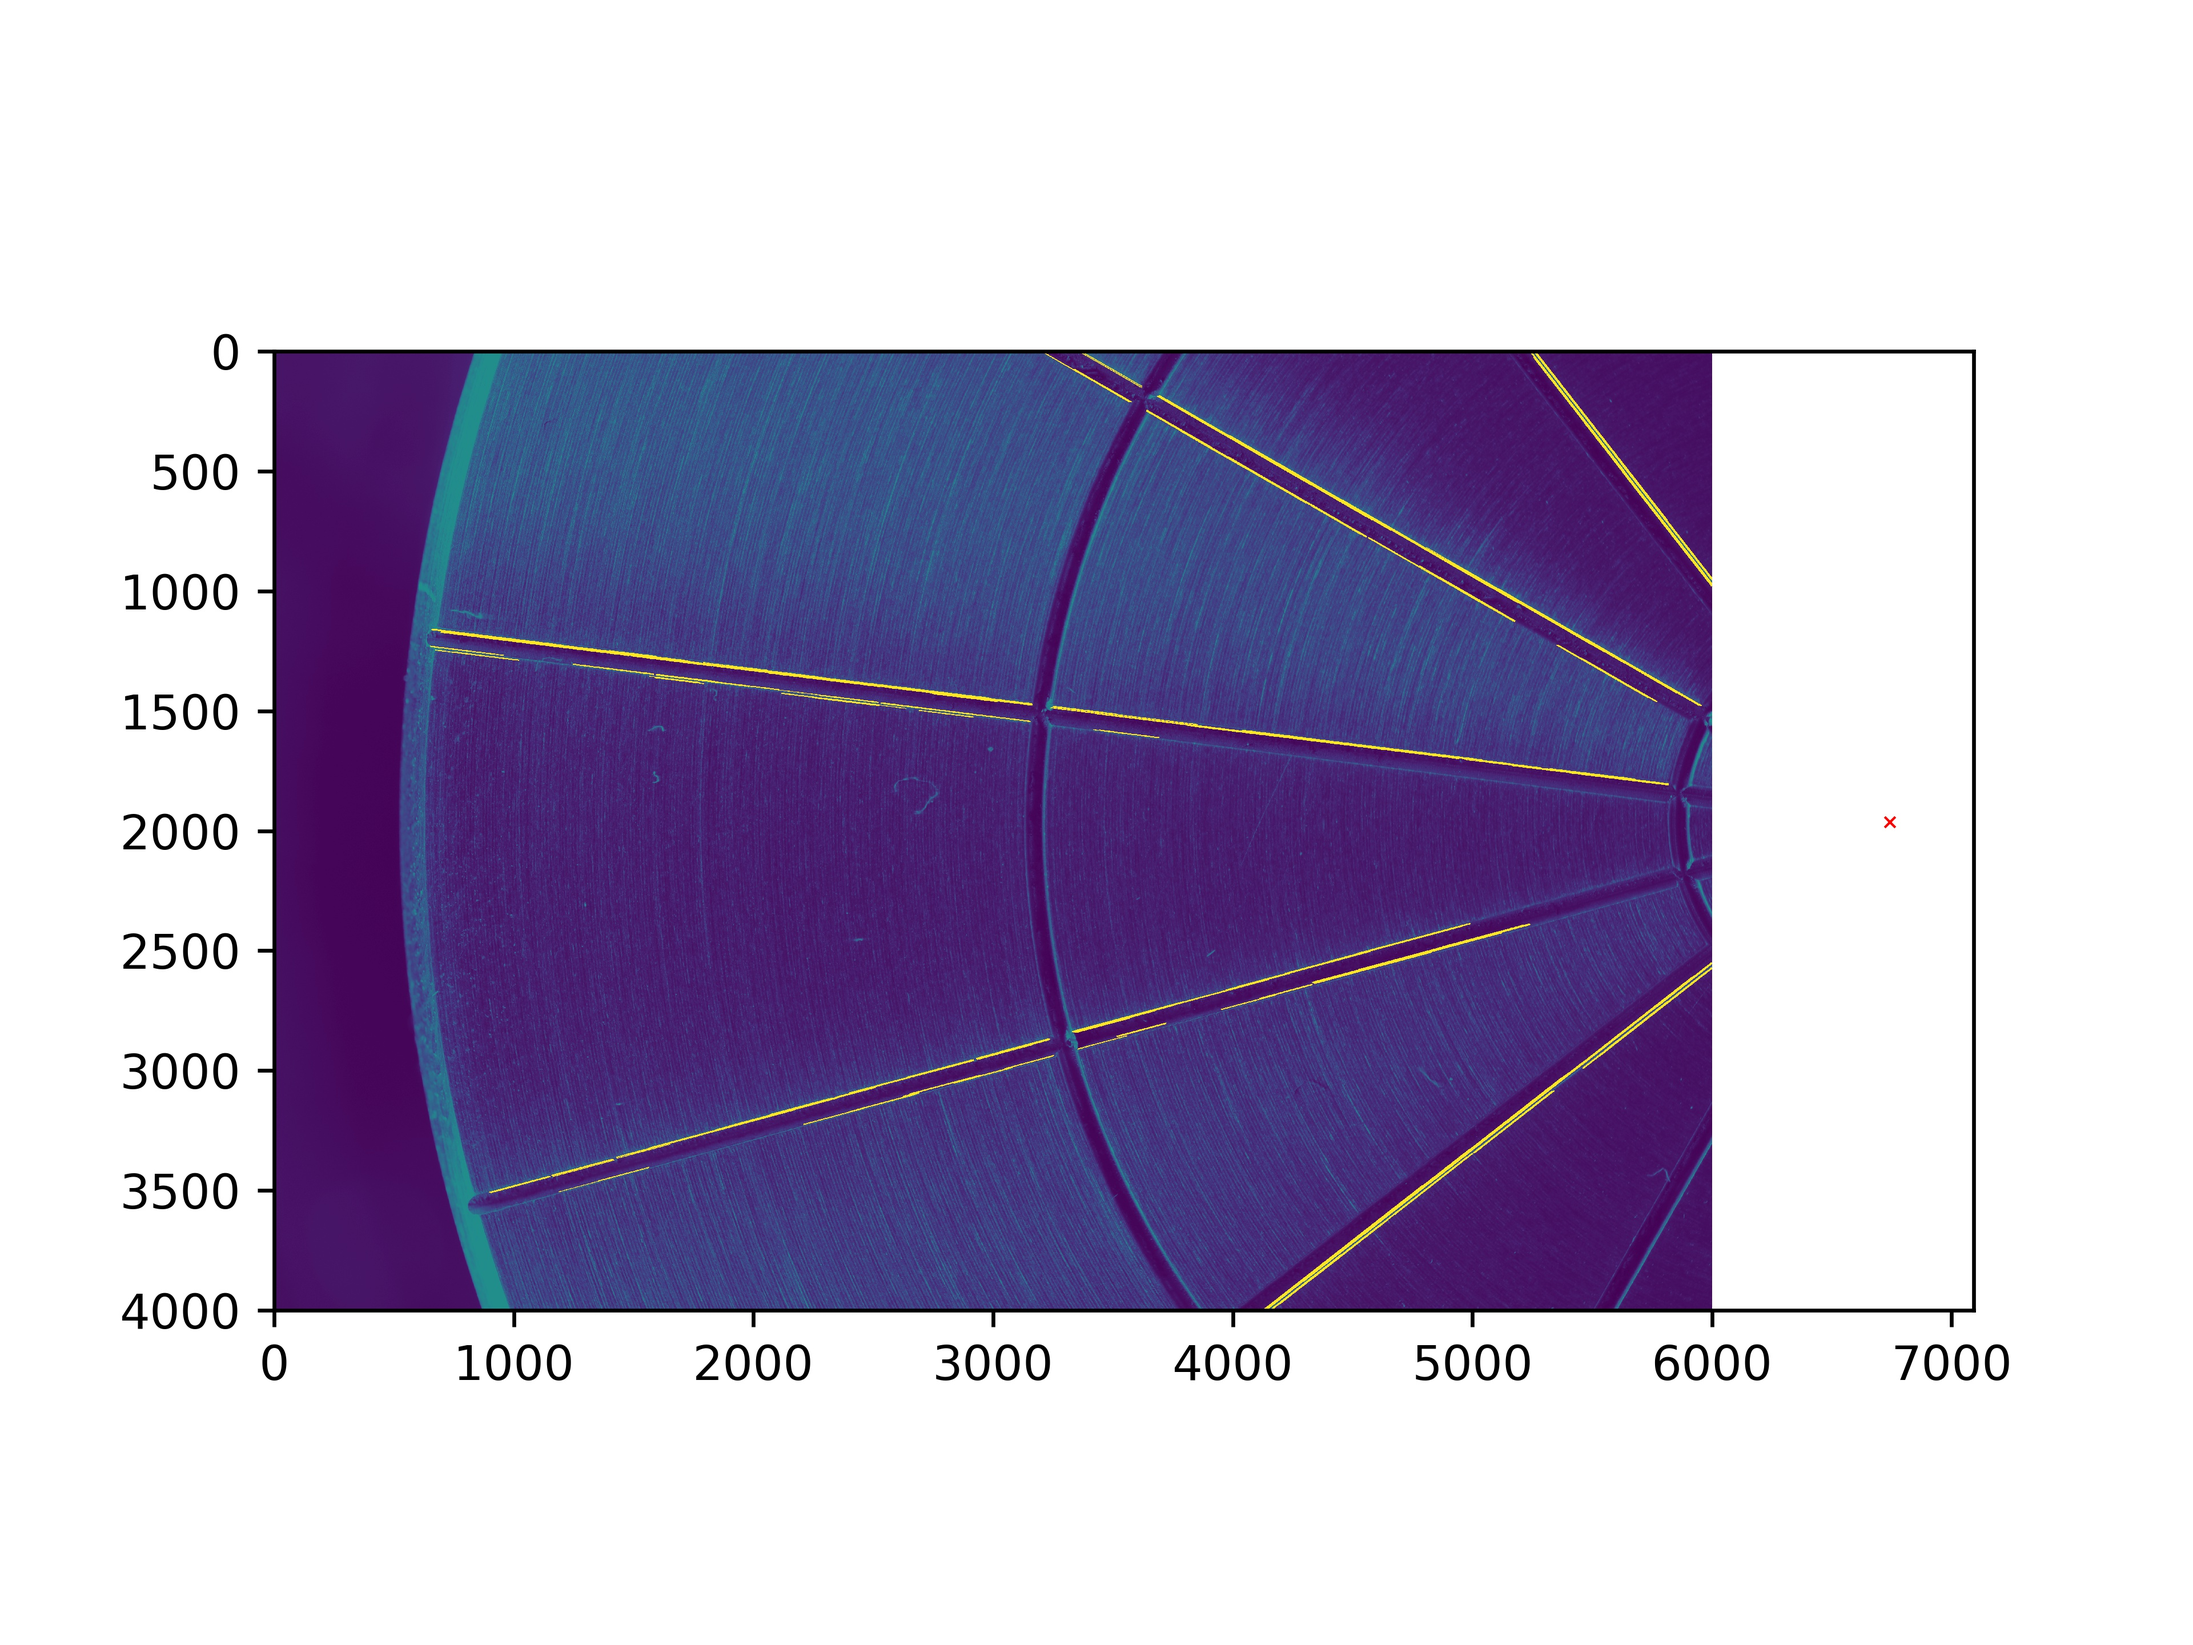
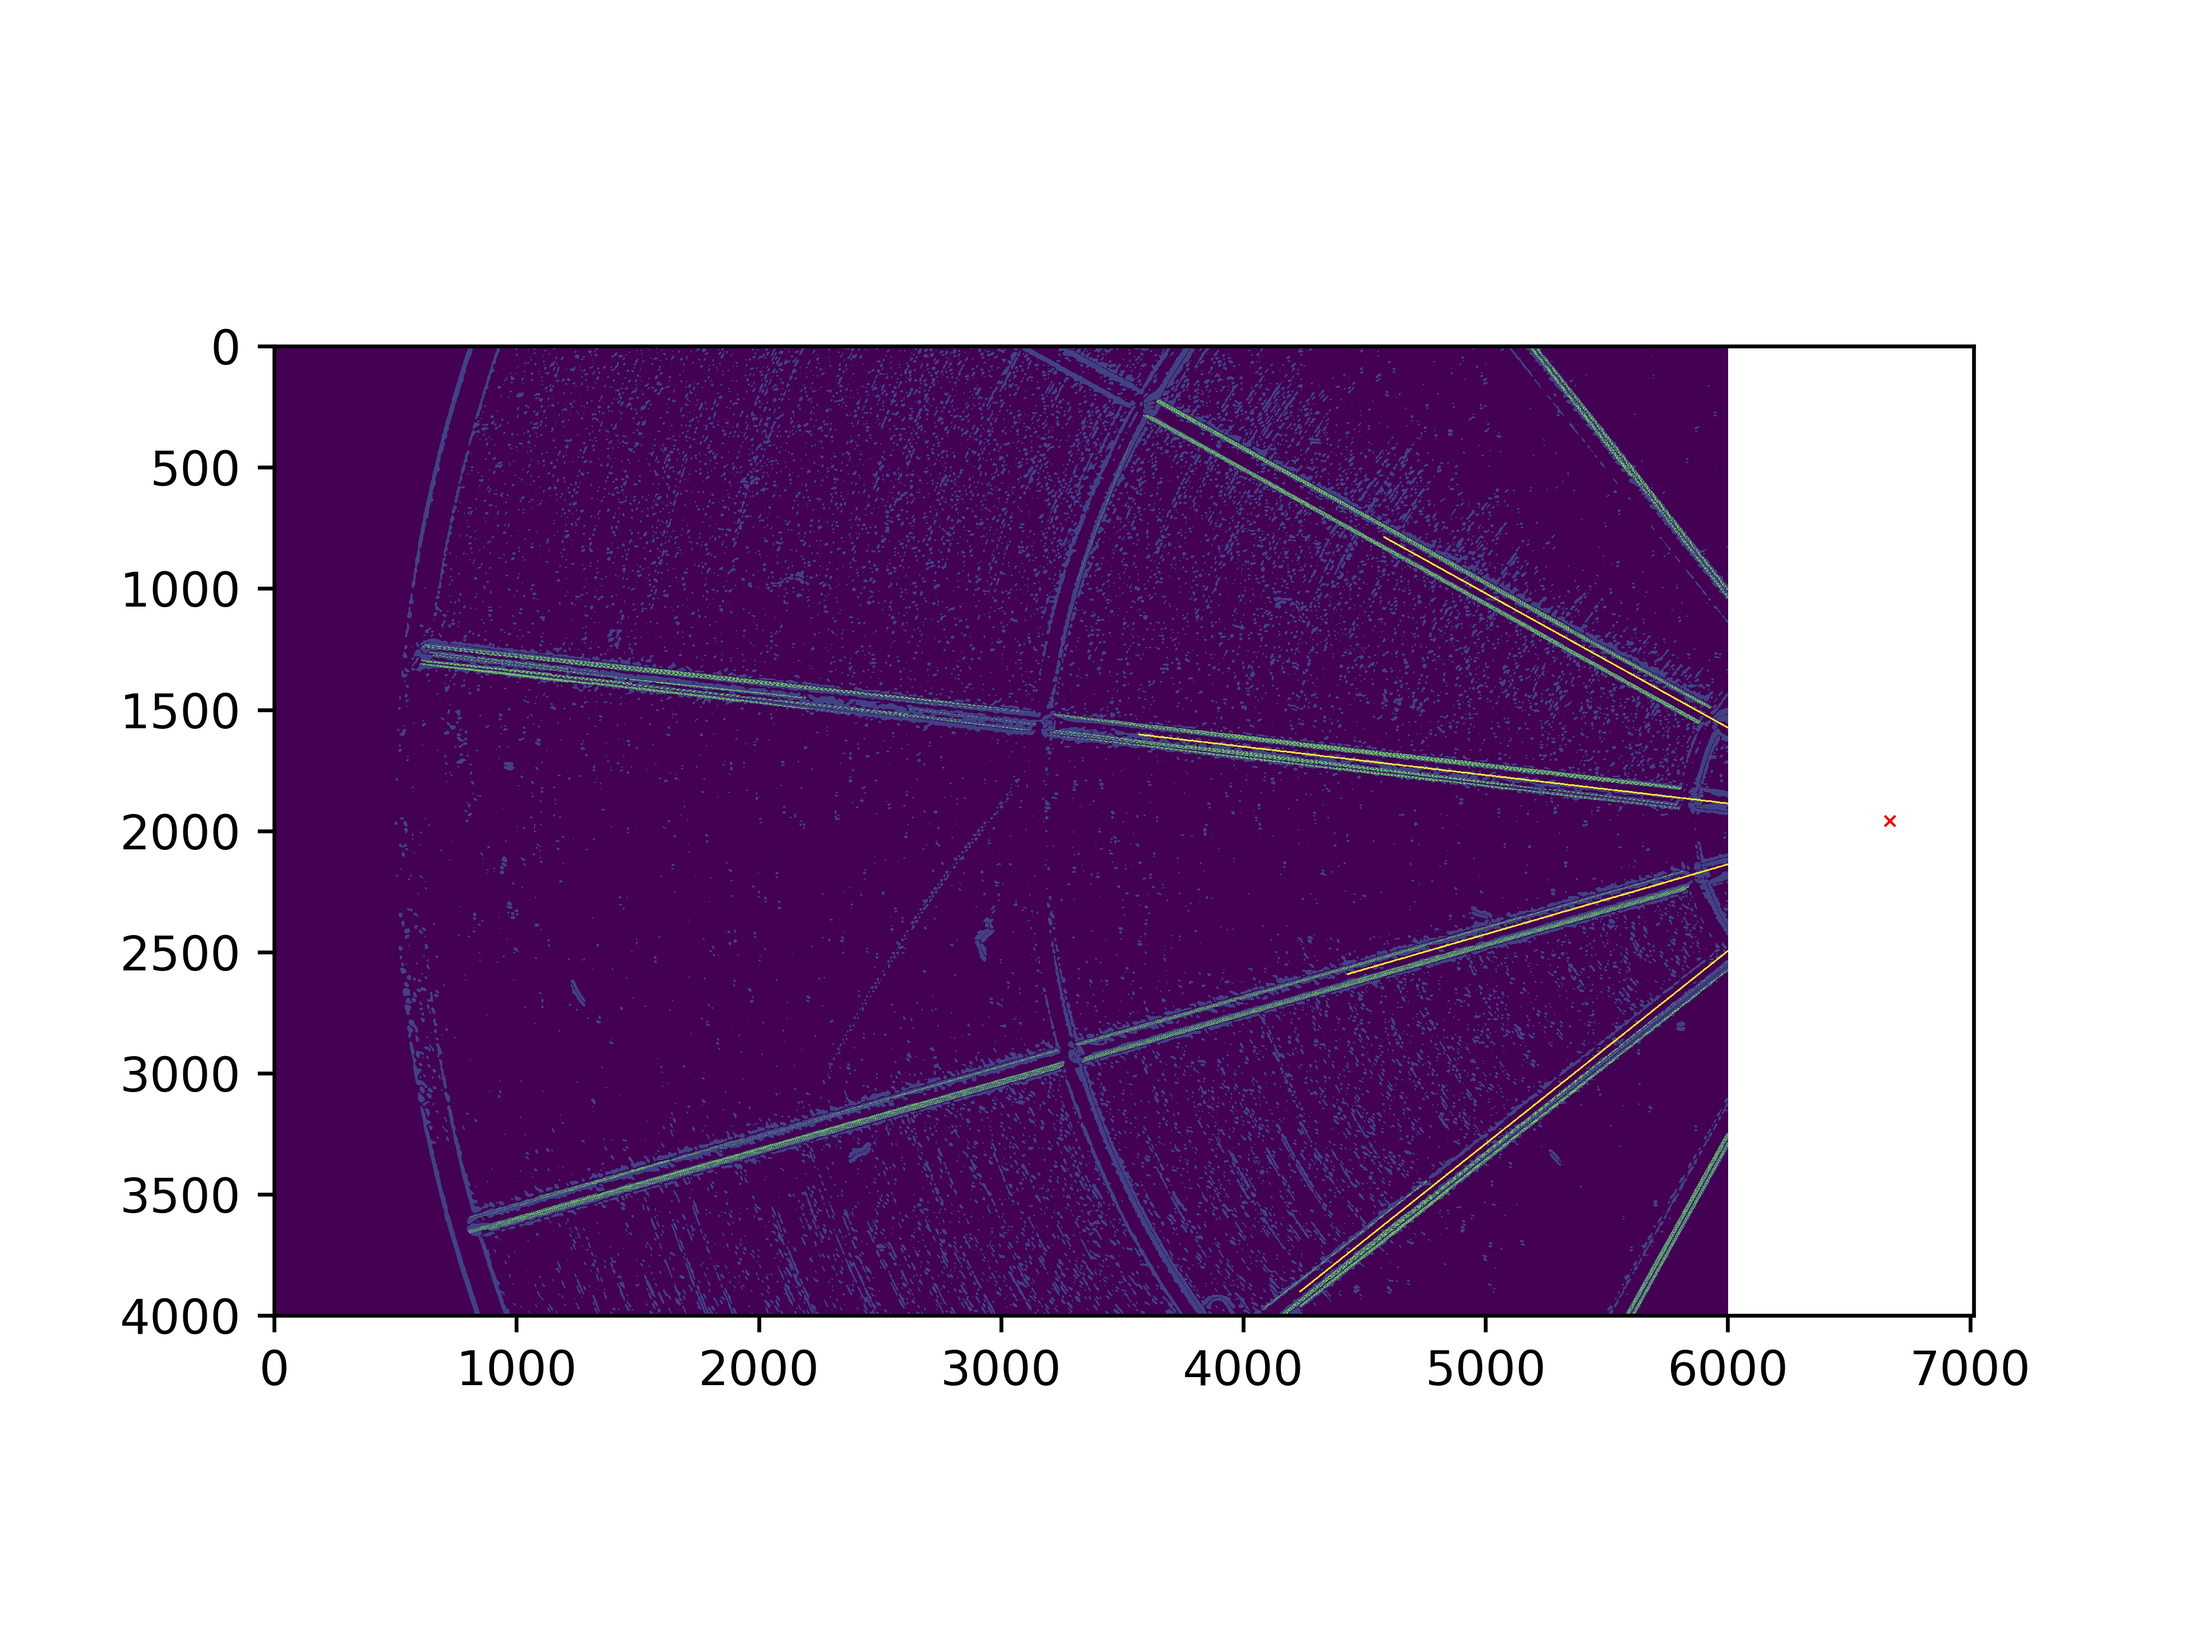
Enhanced line detection

diff --git a/sectorImage/core/calibration.py b/sectorImage/core/calibration.py
@@ -4,6 +4,9 @@ import cv2
 import matplotlib.pyplot as plt
 import math
 import multiprocessing as mp
+from operator import attrgetter
+
+from toolkit.line import Line
 
 
 class Calibrator:
@@ -12,13 +15,18 @@ class Calibrator:
         self.fns = fns
         # self.images = [ndimage.imread(fn, flatten=True) for fn in self.fns]
 
-    def getMidpoints(self, save=True):
-        mp.set_start_method('spawn')
-        ncpus = mp.cpu_count()
-        pool = mp.Pool(ncpus)
-        mps = pool.map(self.houghTransform, self.fns)
-        #mps = [self.houghTransform(fn, plot=False) for fn in self.fns]
-        print(mps)
+    def getMidpoints(self, save=True, mp_FLAG=True):
+        if mp_FLAG:
+            mp.set_start_method('spawn')
+            ncpus = mp.cpu_count()
+            pool = mp.Pool(ncpus)
+            payload = pool.map(self.houghTransform, self.fns)
+        else:
+            payload = [self.houghTransform(fn, plot=True) for fn in self.fns]
+        mps = [p[0] for p in payload]
+        self.i_pts = [p[1] for p in payload]
+        self.f_pts = [p[2] for p in payload]
+        # mps = [self.houghTransform(fn, plot=False) for fn in self.fns]
         if save:
             np.save('data/calibration.npy', mps)
         return mps
@@ -32,6 +40,10 @@ class Calibrator:
         fig = plt.figure()
         ax = fig.add_subplot(111)
         ax.plot(*zip(*mps), ms=5, lw=0.5, marker='x')
+        for i_pt, f_pt in zip(self.i_pts, self.f_pts):
+            for i, f in zip(i_pt, f_pt):
+                # ax.plot([i[0], f[0]], [i[1], f[1]], lw=0.1)
+                pass
         fig.savefig('img/out/midpoints.png', dpi=300)
 
     def houghTransform(self, fn, plot=False):
@@ -43,37 +55,47 @@ class Calibrator:
         # Edge detection filter
         print('Prewitt Filtering')
         derivative = np.abs(ndimage.prewitt(gaussian, axis=0))
+
         # Binary thresholding
         print('Thresholding')
-        ret, thresh1 = cv2.threshold(derivative.astype('uint8'), 15, 10, cv2.THRESH_BINARY)
+        ret, thresh1 = cv2.threshold(derivative.astype('uint8'), 5, 255, cv2.THRESH_BINARY)
         # Morphological opening
         print('Morphology')
         op = ndimage.morphology.binary_opening(thresh1, iterations=2)
+
         # Convert to int
         op = op.astype('uint8')
         if plot:
-            draw = (im * 0.5).astype('uint8')
+            draw = (op * 50).astype('uint8')
 
         # Get probabilistic Hough transformation
         print('Computing Hough transform')
-        minLineLength = 1000
-        maxLineGap = 200
-        lines = cv2.HoughLinesP(op, 1, np.pi / 180, 1000, minLineLength, maxLineGap)
+        minLineLength = 10
+        maxLineGap = 500
+        lines = cv2.HoughLinesP(op, 1, np.pi / 180, 100, minLineLength, maxLineGap)
+        if plot:
+            for line in lines:
+                for x1, y1, x2, y2 in line:
+                    cv2.line(draw, (x1, y1), (x2, y2), 200, 1)
+                    pass
 
         # Initialize R and q for least squares crossing point estimation
         R_matrix = np.array([[0., 0.], [0., 0.]])
         q_vector = np.array([[0.], [0.]])
 
         # Iterate over detected Hough lines
+        i_pts = []
+        f_pts = []
         print('Computing matrix elements')
-        for line in lines:
-            for x1, y1, x2, y2 in line:
-                if plot:
-                    cv2.line(draw, (x1, y1), (x2, y2), 500, 2)
-                # Convert start and end point of line to matrix and vector elements
-                r, q = self.p2vect(float(x1), float(y1), float(x2), float(y2))
-                R_matrix += r
-                q_vector += q
+        avg_lines = self.linePooling(lines)
+        for ln in avg_lines:
+            r, q, a, n = ln[0].p2vect(confidence=ln[1])
+            if plot:
+                cv2.line(draw, (int(ln[0].x1), int(ln[0].y1)), (int(ln[0].x2), int(ln[0].y2)), 255, 5)
+            i_pts.append(a)
+            f_pts.append([sum(x) for x in zip(a, n)])
+            R_matrix += r
+            q_vector += q
 
         # Run least square fitting for Rm = q to find midpoint m
         print('Computing least squares solution')
@@ -85,42 +107,83 @@ class Calibrator:
             print('Plotting')
             fig = plt.figure()
             ax = fig.add_subplot(111)
+
             ax.imshow(draw)
             ax.scatter(*lsq, s=5, marker='x', color='red', lw=0.5)
             fig.savefig('img/out/houghTransform.jpg', dpi=600)
 
-        return lsq_tuple
+        return (lsq_tuple, i_pts, f_pts)
 
-    def p2vect(self, x1, y1, x2, y2):
-        # Calculate matrix and vector elements for point set
-        # a = (x1,y1)T
-        # n = ||1->2||T
-        # r = I - nnT
-        # q = r*a
+    def linePooling(self, lines_raw):
+        lines = []
+        ms = []
+        qs = []
+        for line_raw in lines_raw:
+            line = Line(*line_raw[0])
+            lines.append(line)
+            ms.append(line.m)
+            qs.append(line.q)
 
-        nx_raw = x2 - x1
-        ny_raw = y2 - y1
-        # Normalize
-        length = math.sqrt(nx_raw**2 + ny_raw**2)
-        nx = nx_raw / length
-        ny = ny_raw / length
+        m_bin, m_edges = np.histogram(ms, bins='auto')
+        avg_lines = []
+        for i, b in enumerate(m_bin):
+            if b >= sorted(m_bin, reverse=True)[3] and b > 0:
+                ln_bin = []
+                e_low = m_edges[i]
+                e_high = m_edges[i + 1]
+                for ln in lines:
+                    if ln.m >= e_low and ln.m <= e_high:
+                        ln_bin.append(ln)
+                avg_lines.append(self.averageLines(ln_bin))
 
-        nx2 = nx**2
-        ny2 = ny**2
-        nxy = nx * ny
-        # Generate matrix
-        r = np.array([[1 - nx2, -nxy], [-nxy, 1 - ny2]])
-        # Generate vector
-        q = np.array([[(1 - nx2) * x1 - nxy * y1], [-nxy * x1 + (1 - ny2) * y1]])
-        return(r, q)
+        return avg_lines
+
+    def averageLines(self, line_bin):
+        x1 = line_bin[0].x1
+        x2 = line_bin[0].x2
+
+        avg_m = sum(line.m for line in line_bin) / float(len(line_bin))
+        correction_vect = [3000, avg_m * 3000]
+        corrected_lines = []
+        for ln in line_bin:
+            dx, dy = correction_vect
+            x1 = ln.x1
+            y1 = ln.y1
+            x2 = x1 + dx
+            y2 = y1 + dy
+            ln_new = Line(x1, y1, x2, y2)
+            corrected_lines.append(ln_new)
+        corrected_lines.sort(key=lambda x: x.q)
+        delta_q = []
+        for i, ln in enumerate(corrected_lines[:-1]):
+            delta = corrected_lines[i + 1].q - ln.q
+            delta_q.append(delta)
+
+        interface = delta_q.index(max(delta_q)) + 1
+        block_low = corrected_lines[:interface]
+        block_high = corrected_lines[interface:]
+        # avg_q = sum(line.q for line in line_bin) / float(len(line_bin))
+        # avg_q = (line_bin[0].q + line_bin[-1].q) / 2
+        # avg_q = (max(corrected_lines, key=attrgetter('q')).q + min(corrected_lines, key=attrgetter('q')).q) / 2
+        avg_q_low = sum(line.q for line in block_low) / float(len(block_low))
+        avg_q_high = sum(line.q for line in block_high) / float(len(block_high))
+        avg_q = (avg_q_low + avg_q_high) / 2
+        y1 = avg_m * x1 + avg_q
+        y2 = avg_m * x2 + avg_q
+
+        c = len(line_bin)
+        print(c)
+
+        return (Line(x1, y1, x2, y2), c)
 
 
 if __name__ == '__main__':
-    fns = ['img/src/calibration/cpt1.jpg']
+
     fns = ['img/src/calibration/cpt' + str(i) + '.jpg' for i in range(1, 17)]
-    fns = ['../hardware/cpt' + str(i) + '.jpg' for i in range(1, 17)]
+    fns = ['img/src/calibration/cpt3.jpg']
+    # fns = ['../hardware/cpt' + str(i) + '.jpg' for i in range(1, 17)]
 
     c = Calibrator(fns)
-    mps = c.getMidpoints()
+    mps = c.getMidpoints(mp_FLAG=False)
     # mps = c.loadMidpoints()
     c.plotMidpoints(mps)

diff --git a/sectorImage/core/toolkit/line.py b/sectorImage/core/toolkit/line.py
@@ -1,0 +1,44 @@
+import numpy as np
+import math
+
+
+class Line:
+
+    def __init__(self, x1, y1, x2, y2):
+        self.x1 = x1
+        self.y1 = y1
+
+        self.x2 = x2
+        self.y2 = y2
+
+        self.m = (y2 - y1) / (x2 - x1)
+        self.m_vect = [x2 - x1, y2 - y1]
+        self.q = y1 - self.m * x1
+
+        # self.r, self.q, self.a, self.n = self.p2vect()
+
+    def p2vect(self, confidence=1.0):
+        # Calculate matrix and vector elements for point set
+        # a = (x1,y1)T
+        # n = ||1->2||T
+        # r = I - nnT
+        # q = r*a
+
+        nx_raw = self.x2 - self.x1
+        ny_raw = self.y2 - self.y1
+        # Normalize
+        length = math.sqrt(nx_raw**2 + ny_raw**2)
+        nx = nx_raw / length
+        ny = ny_raw / length
+
+        scale = 3000
+        n = [nx * scale, ny * scale]
+        a = [self.x1, self.y1]
+        nx2 = nx**2
+        ny2 = ny**2
+        nxy = nx * ny
+        # Generate matrix
+        r = confidence * np.array([[1 - nx2, -nxy], [-nxy, 1 - ny2]])
+        # Generate vector
+        q = confidence * np.array([[(1 - nx2) * self.x1 - nxy * self.y1], [-nxy * self.x1 + (1 - ny2) * self.y1]])
+        return(r, q, a, n)
